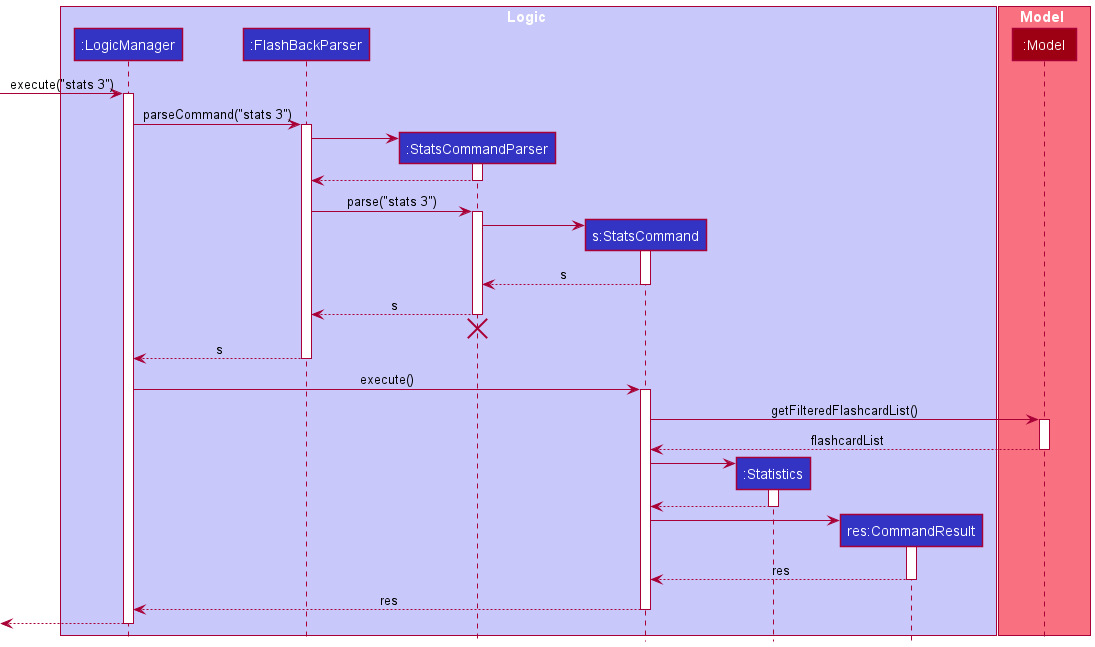
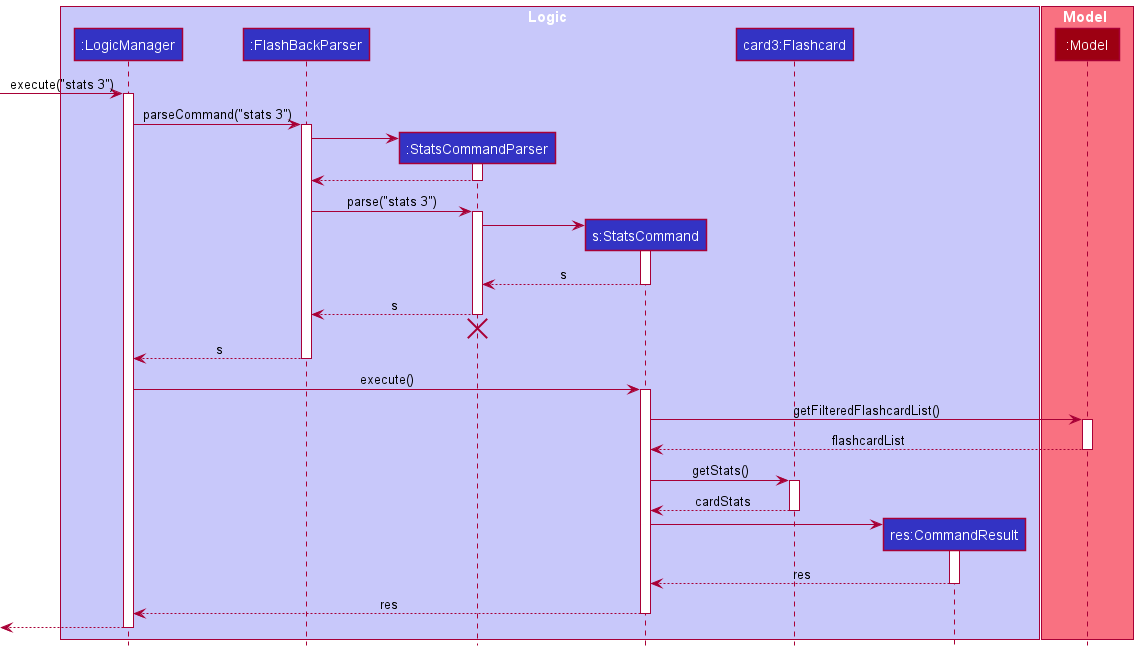
Update DG
* Update error for sequence diagram
* Add note about PlantUML limitation
* Update section on statistics implmentation

diff --git a/docs/DeveloperGuide.md b/docs/DeveloperGuide.md
@@ -184,6 +184,7 @@ The `StatsCommand` is then executed:
 identified by the provided index is retrieved from the current flashcard list, and the statistics associated with the card is obtained by
 `Flashcard#getStats()`.
 
+
 * If the flashcard index was omitted from the user input. A new `Statistics` object is created, representing the
 overall statistics of the current flashcard list.
 
@@ -191,12 +192,19 @@ overall statistics of the current flashcard list.
 A `CommandResult` is created with the generated flashcard `Statistics`. It is then passed to `MainWindow`, where
 the UI is updated to display the retrieved statistics.
 
-The following sequence diagram illustrates the scenario when user enters `stats 3` into the command box and presses
-`enter`.
+Example: `stats 3` is entered by the user
+
+It implements the following operations:
+
+* `StatsCommandParser.parse(String command)` - Parses through user input and returns an executable `StatsCommand`.
+* `ModeManager#getFilteredFlashcardList()` - Retrieves the current flashcard list.
+* `Flashcard#getStats()` - Retrieves statistics of the flashcard at index 3 of the list.
+
+The following sequence diagram illustrates this scenario.
 
 ![StatsSequenceDiagram](images/StatsSequenceDiagram.png)
-
-
+ℹ **Note:** The lifeline for `StatsCommandParser` should end at the destroy marker (X) 
+but due to a limitation of PlantUML, the lifeline reaches the end of diagram.
 
 ### \[Proposed\] Undo/redo feature
 
